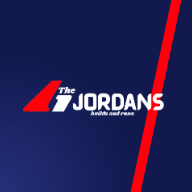
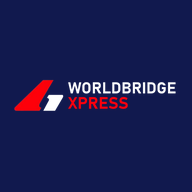
Rebrand the site to WorldBridgeXpress (worldbridgexpress.com)
- New WorldBridgeXpress logo (dark + light) and admin app icons, generated
  by tools/make-logo.py from the existing brand mark, same sizes as before
- Replace "TheJordans" everywhere visitors and admins see it: page titles,
  footer, about, FAQ, testimonials, contact widget, admin dashboard
- Contact emails on the domain (info@ / support@worldbridgexpress.com)
- New page title, meta description and social sharing tags
- Migration: WBX prefix for new tracking numbers, new invoice company name
  and website (only where the old defaults are still set)

Changed region(s): [[0.0625, 0.0, 0.9688, 1.0], [0.0, 0.6562, 0.3438, 1.0]]

diff --git a/Jordan2/thejordans-react/src/components/sections/Testimonials.jsx b/Jordan2/thejordans-react/src/components/sections/Testimonials.jsx
@@ -200,7 +200,7 @@ export default function Testimonials() {
               <div className="pxl-text-editor default ">
                 <div className="pxl-item--inner  " data-wow-delay="ms">
                   <p>
-                    Real feedback from teams who rely on TheJordans for consistent, dependable logistics support.
+                    Real feedback from teams who rely on WorldBridgeXpress for consistent, dependable logistics support.
                   </p>
                 </div>
               </div>
@@ -289,7 +289,7 @@ export default function Testimonials() {
                           <div className="pxl-item--avatar " style={{ backgroundImage: "url(/uploads/2026/03/h4-12.webp)" }}></div>
                           <div className="content-right">
                             <p className="pxl-item--description">
-                              “TheJordans has been a reliable logistics partner for our day-to-day operations. Their team communicates clearly, handles shipments consistently, and makes complex deliveries much easier to manage.”
+                              “WorldBridgeXpress has been a reliable logistics partner for our day-to-day operations. Their team communicates clearly, handles shipments consistently, and makes complex deliveries much easier to manage.”
                             </p>
                             <div className="author">
                               <div className="pxl-item--quote">
@@ -306,7 +306,7 @@ export default function Testimonials() {
                           <div className="pxl-item--avatar " style={{ backgroundImage: "url(/uploads/2026/03/h4-13.webp)" }}></div>
                           <div className="content-right">
                             <p className="pxl-item--description">
-                              “What we value most is the consistency and transparency TheJordans brings to our logistics workflows. Their approach fits perfectly with fast-moving e-commerce operations.”
+                              “What we value most is the consistency and transparency WorldBridgeXpress brings to our logistics workflows. Their approach fits perfectly with fast-moving e-commerce operations.”
                             </p>
                             <div className="author">
                               <div className="pxl-item--quote">

diff --git a/Jordan2/thejordans-react/src/components/ContactWidget.jsx b/Jordan2/thejordans-react/src/components/ContactWidget.jsx
@@ -65,7 +65,7 @@ export default function ContactWidget() {
       <div id="alx-contact-container" className={cx(mounted && 'show')}>
         <div id="alx-dropdown" role="menu" className={cx(open && 'open', centered && 'alxw-center')}>
           <div className="alxw-head">
-            <strong>TheJordans Support</strong>
+            <strong>WorldBridgeXpress Support</strong>
             <span>
               <span className="alxw-dot"></span>Online &mdash; we usually reply instantly
             </span>
@@ -88,7 +88,7 @@ export default function ContactWidget() {
 
           <a
             className="alxw-opt"
-            href="https://wa.me/1231232131?text=Hello%20TheJordans!"
+            href="https://wa.me/1231232131?text=Hello%20WorldBridgeXpress!"
             target="_blank"
             rel="noopener"
             role="menuitem"
@@ -103,7 +103,7 @@ export default function ContactWidget() {
             </div>
           </a>
 
-          <a className="alxw-opt" href="mailto:thejordans@support.com" role="menuitem" onClick={() => toggle(false)}>
+          <a className="alxw-opt" href="mailto:support@worldbridgexpress.com" role="menuitem" onClick={() => toggle(false)}>
             <svg viewBox="0 0 24 24" fill="#11194E">
               <path d="M20 4H4a2 2 0 00-2 2v12a2 2 0 002 2h16a2 2 0 002-2V6a2 2 0 00-2-2zm0 4l-8 5-8-5V6l8 5 8-5z" />
             </svg>
@@ -113,7 +113,7 @@ export default function ContactWidget() {
             </div>
           </a>
 
-          <div className="alxw-foot">TheJordans &middot; Logistics Support</div>
+          <div className="alxw-foot">WorldBridgeXpress &middot; Logistics Support</div>
         </div>
 
         {/* DTD CHAT BUTTON */}
@@ -122,7 +122,7 @@ export default function ContactWidget() {
           onClick={() => toggle()}
           aria-haspopup="true"
           aria-expanded={open}
-          aria-label="Contact TheJordans"
+          aria-label="Contact WorldBridgeXpress"
           style={{ position: 'fixed', bottom: '24px', right: '18px', zIndex: 99998, cursor: 'pointer' }}
         >
           <div className="alxw-btn-core">

diff --git a/Jordan2/thejordans-react/src/components/Footer.jsx b/Jordan2/thejordans-react/src/components/Footer.jsx
@@ -140,7 +140,7 @@ export default function Footer() {
                     <div className="elementor-widget-container">
                       <div id="pxl-pxl_heading-4a316ff-9800" className="pxl-heading   px-sub-title-default-style ">
                         <div className="pxl-heading--inner">
-                          <h3 className="pxl-item--title style-default color highlight-default " data-wow-delay="ms">{" Start Shipping Smarter With TheJordans Logistics. "}</h3>
+                          <h3 className="pxl-item--title style-default color highlight-default " data-wow-delay="ms">{" Start Shipping Smarter With WorldBridgeXpress. "}</h3>
                         </div>
                       </div>
                     </div>
@@ -343,7 +343,7 @@ export default function Footer() {
                       <div className="pxl-text-editor underline ">
                         <div className="pxl-item--inner  " data-wow-delay="ms">
                           <p>
-                            <a href="mailto:info@example.com">info@example.com</a>
+                            <a href="mailto:info@worldbridgexpress.com">info@worldbridgexpress.com</a>
                           </p>
                         </div>
                       </div>
@@ -432,7 +432,7 @@ export default function Footer() {
                     <div className="elementor-widget-container">
                       <div className="pxl-text-editor underline ">
                         <div className="pxl-item--inner  " data-wow-delay="ms">
-                          <p>© 2026 TheJordans. All Rights Reserved.</p>
+                          <p>© 2026 WorldBridgeXpress (worldbridgexpress.com). All Rights Reserved.</p>
                         </div>
                       </div>
                     </div>

diff --git a/Jordan2/thejordans-react/index.html b/Jordan2/thejordans-react/index.html
@@ -3,7 +3,16 @@
   <head>
     <meta charset="UTF-8" />
     <meta name="viewport" content="width=device-width, initial-scale=1, viewport-fit=cover" />
-    <title>TheJordans – Logistics &amp; Freight</title>
+    <title>WorldBridgeXpress – Global Logistics, Freight &amp; Live Shipment Tracking</title>
+    <meta name="description" content="WorldBridgeXpress is a global logistics and freight company bridging businesses to the world — road, rail, sea and air shipping to 120+ countries, warehousing and supply chain support, with live online package tracking from pickup to delivery." />
+    <meta name="theme-color" content="#11194E" />
+    <meta property="og:type" content="website" />
+    <meta property="og:site_name" content="WorldBridgeXpress" />
+    <meta property="og:title" content="WorldBridgeXpress – Global Logistics, Freight &amp; Live Shipment Tracking" />
+    <meta property="og:description" content="WorldBridgeXpress is a global logistics and freight company bridging businesses to the world — road, rail, sea and air shipping to 120+ countries, warehousing and supply chain support, with live online package tracking from pickup to delivery." />
+    <meta property="og:url" content="https://worldbridgexpress.com/" />
+    <meta property="og:image" content="https://worldbridgexpress.com/admin-icons/icon-512.png" />
+    <meta name="twitter:card" content="summary" />
     <link rel="preconnect" href="https://fonts.googleapis.com" />
     <link rel="preconnect" href="https://fonts.gstatic.com" crossorigin />
     <link rel="stylesheet" href="/css/00-head-wp-img-auto-sizes-contain-inline-css.css" />

diff --git a/Jordan2/thejordans-react/admin.html b/Jordan2/thejordans-react/admin.html
@@ -4,14 +4,14 @@
     <meta charset="UTF-8" />
     <meta name="viewport" content="width=device-width, initial-scale=1" />
     <meta name="robots" content="noindex, nofollow" />
-    <title>TheJordans Admin</title>
+    <title>WorldBridgeXpress Admin</title>
     <!-- installable on a phone's home screen ("Add to Home Screen") -->
     <link rel="manifest" href="/admin.webmanifest" />
     <meta name="theme-color" content="#11194E" />
     <meta name="mobile-web-app-capable" content="yes" />
     <meta name="apple-mobile-web-app-capable" content="yes" />
     <meta name="apple-mobile-web-app-status-bar-style" content="black-translucent" />
-    <meta name="apple-mobile-web-app-title" content="TJ Admin" />
+    <meta name="apple-mobile-web-app-title" content="WBX Admin" />
     <link rel="apple-touch-icon" href="/admin-icons/apple-touch-icon.png" />
     <link rel="icon" href="/admin-icons/icon-192.png" />
     <link rel="preconnect" href="https://fonts.googleapis.com" />

diff --git a/Jordan2/thejordans-react/src/components/sections/AboutUs.jsx b/Jordan2/thejordans-react/src/components/sections/AboutUs.jsx
@@ -149,7 +149,7 @@ export default function AboutUs() {
                 <div className="pxl-text-editor default ">
                   <div className="pxl-item--inner  " data-wow-delay="ms">
                     <p>
-                      TheJordans is a logistics partner built for fast-moving businesses. We combine experienced operations, clear communication, and reliable execution — so your shipments move smoothly, every step of the way.
+                      WorldBridgeXpress is a logistics partner built for fast-moving businesses. We combine experienced operations, clear communication, and reliable execution — so your shipments move smoothly, every step of the way.
                     </p>
                     <p>
                       Our hands-on team supports both B2B and e-commerce operations, delivering consistent performance and dependable logistics at every stage.

diff --git a/Jordan2/thejordans-react/src/components/SidePanel.jsx b/Jordan2/thejordans-react/src/components/SidePanel.jsx
@@ -119,7 +119,7 @@ export default function SidePanel() {
                         </div>
                         <div className="content-right">
                           <h5 className="pxl-item--title el-empty">Contact Us</h5>
-                          <p className="pxl-item--description">{" +1800 - 668 333 info@example.com "}</p>
+                          <p className="pxl-item--description">{" +1800 - 668 333 info@worldbridgexpress.com "}</p>
                         </div>
                       </div>
                     </div>

diff --git a/Jordan2/thejordans-react/src/admin/pages/Login.jsx b/Jordan2/thejordans-react/src/admin/pages/Login.jsx
@@ -43,7 +43,7 @@ export default function Login() {
 
       <section className="login__form-wrap">
         <form className="login__card" onSubmit={submit} noValidate>
-          <img src="/uploads/2026/02/logo.webp" alt="TheJordans" className="login__logo" />
+          <img src="/uploads/2026/02/logo.webp" alt="WorldBridgeXpress" className="login__logo" />
           <h1>Sign in to the dashboard</h1>
           <p className="muted">Use your administrator account.</p>
 

diff --git a/Jordan2/thejordans-react/src/admin/AdminApp.jsx b/Jordan2/thejordans-react/src/admin/AdminApp.jsx
@@ -138,7 +138,7 @@ function Layout() {
     <div className={`shell${menuOpen ? ' shell--menu' : ''}`}>
       <aside className="sidebar">
         <div className="sidebar__brand">
-          <img src="/uploads/2026/02/logo-light.webp" alt="TheJordans" />
+          <img src="/uploads/2026/02/logo-light.webp" alt="WorldBridgeXpress" />
           <span className="sidebar__tag">Admin</span>
         </div>
         <nav className="sidebar__nav">

diff --git a/Jordan2/thejordans-react/src/components/sections/Faq.jsx b/Jordan2/thejordans-react/src/components/sections/Faq.jsx
@@ -60,7 +60,7 @@ export default function Faq() {
                   </svg>
                 </span>
                 {" "}
-                <span className="pxl--btn-text" data-text="Ask TheJordans Logistic">{" Ask TheJordans Logistic "}</span>
+                <span className="pxl--btn-text" data-text="Ask WorldBridgeXpress">{" Ask WorldBridgeXpress "}</span>
               </a>
             </div>
           </div>

diff --git a/Jordan2/thejordans-react/src/admin/pages/Subscribers.jsx b/Jordan2/thejordans-react/src/admin/pages/Subscribers.jsx
@@ -16,7 +16,7 @@ export default function Subscribers() {
     const url = URL.createObjectURL(blob);
     const a = document.createElement('a');
     a.href = url;
-    a.download = `thejordans-subscribers-${new Date().toISOString().slice(0, 10)}.csv`;
+    a.download = `worldbridgexpress-subscribers-${new Date().toISOString().slice(0, 10)}.csv`;
     a.click();
     URL.revokeObjectURL(url);
   };

diff --git a/Jordan2/thejordans-react/src/components/sections/RequestQuote.jsx b/Jordan2/thejordans-react/src/components/sections/RequestQuote.jsx
@@ -374,7 +374,7 @@ export default function RequestQuote() {
                     </svg>
                   </a>
                   {" "}
-                  <span className="pxl-icon-label">+1800 - 668 333 info@example.com</span>
+                  <span className="pxl-icon-label">+1800 - 668 333 info@worldbridgexpress.com</span>
                 </div>
               </div>
             </div>
